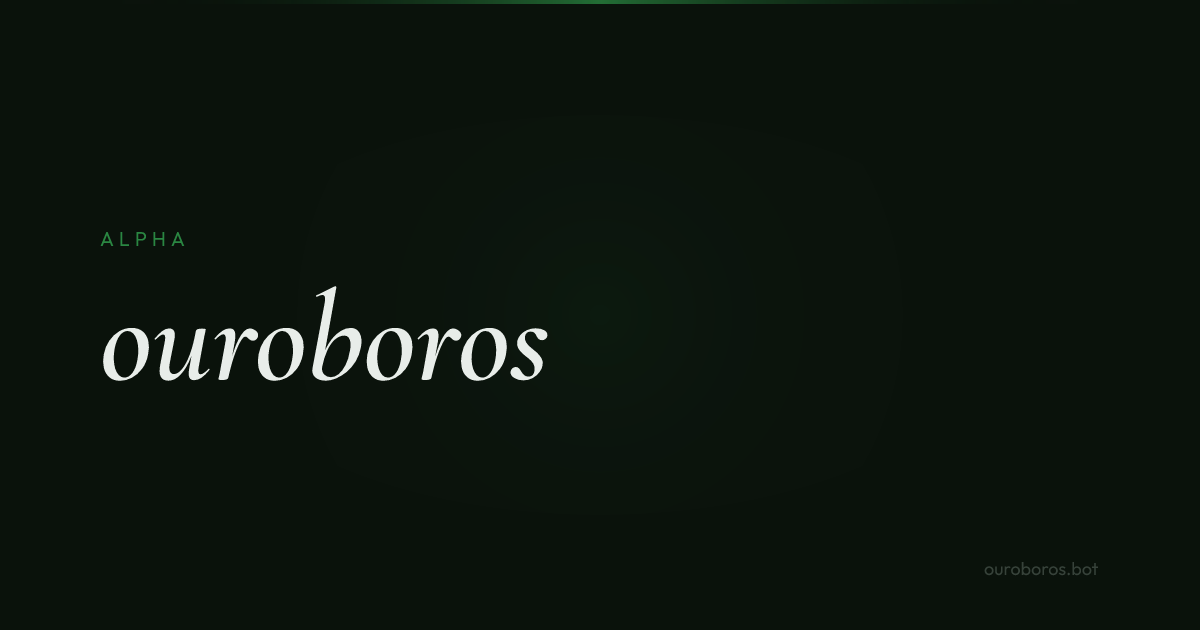
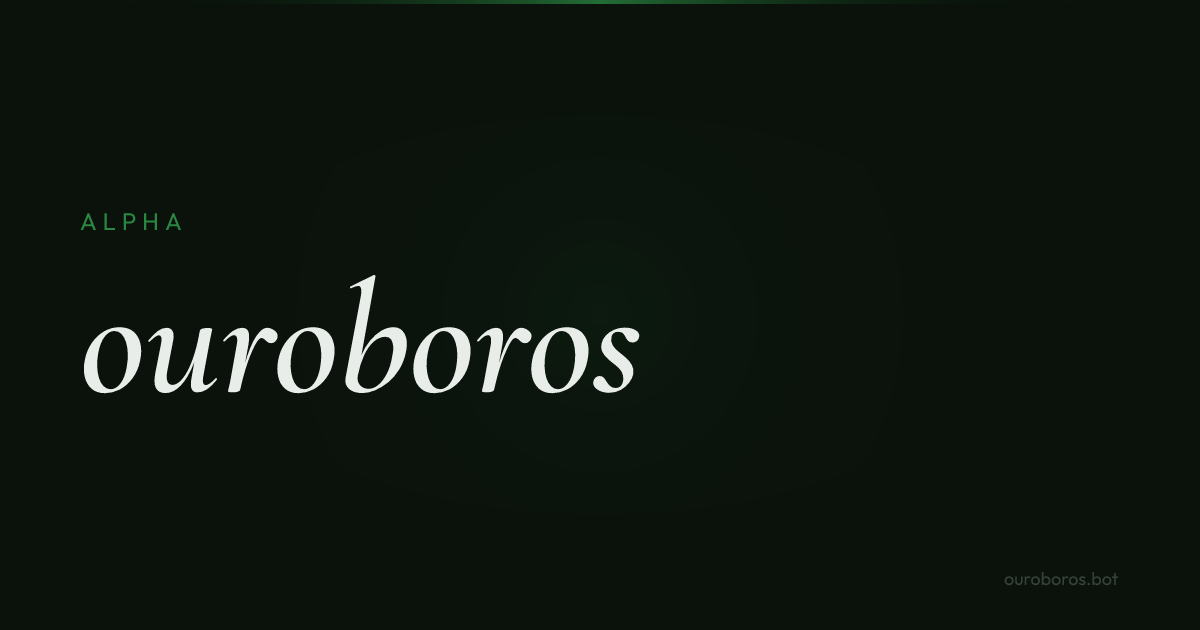
OG: even bigger titles (110-160px), tighter padding

Changed region(s): [[0.0617, 0.4222, 0.555, 0.6333], [0.0617, 0.3317, 0.1542, 0.3921], [0.8325, 0.9048, 0.925, 0.9349]]

diff --git a/scripts/generate-og.ts b/scripts/generate-og.ts
@@ -51,8 +51,8 @@ async function generateImage(options: {
   heroSize?: boolean
 }) {
   const { title, subtitle, tag, heroSize } = options
-  // Mobile-optimized: massive title, nothing else
-  const titleSize = heroSize ? 128 : title.length > 25 ? 80 : 96
+  // iMessage renders cards at ~300x157px — titles need to be HUGE
+  const titleSize = heroSize ? 160 : title.length > 25 ? 110 : 130
 
   const svg = await satori(
     {
@@ -64,7 +64,7 @@ async function generateImage(options: {
           display: 'flex',
           flexDirection: 'column',
           justifyContent: 'center',
-          padding: '80px 100px',
+          padding: '60px 80px',
           background: '#0a120b',
           fontFamily: 'Outfit',
           position: 'relative',
@@ -124,7 +124,7 @@ async function generateImage(options: {
                 type: 'span',
                 props: {
                   style: {
-                    fontSize: '20px',
+                    fontSize: '24px',
                     letterSpacing: '0.25em',
                     textTransform: 'uppercase' as const,
                     color: 'rgba(45,148,71,0.9)',
@@ -159,9 +159,9 @@ async function generateImage(options: {
             props: {
               style: {
                 position: 'absolute',
-                bottom: '50px',
-                left: '100px',
-                right: '100px',
+                bottom: '40px',
+                left: '80px',
+                right: '80px',
                 display: 'flex',
                 justifyContent: 'space-between',
                 alignItems: 'center',
